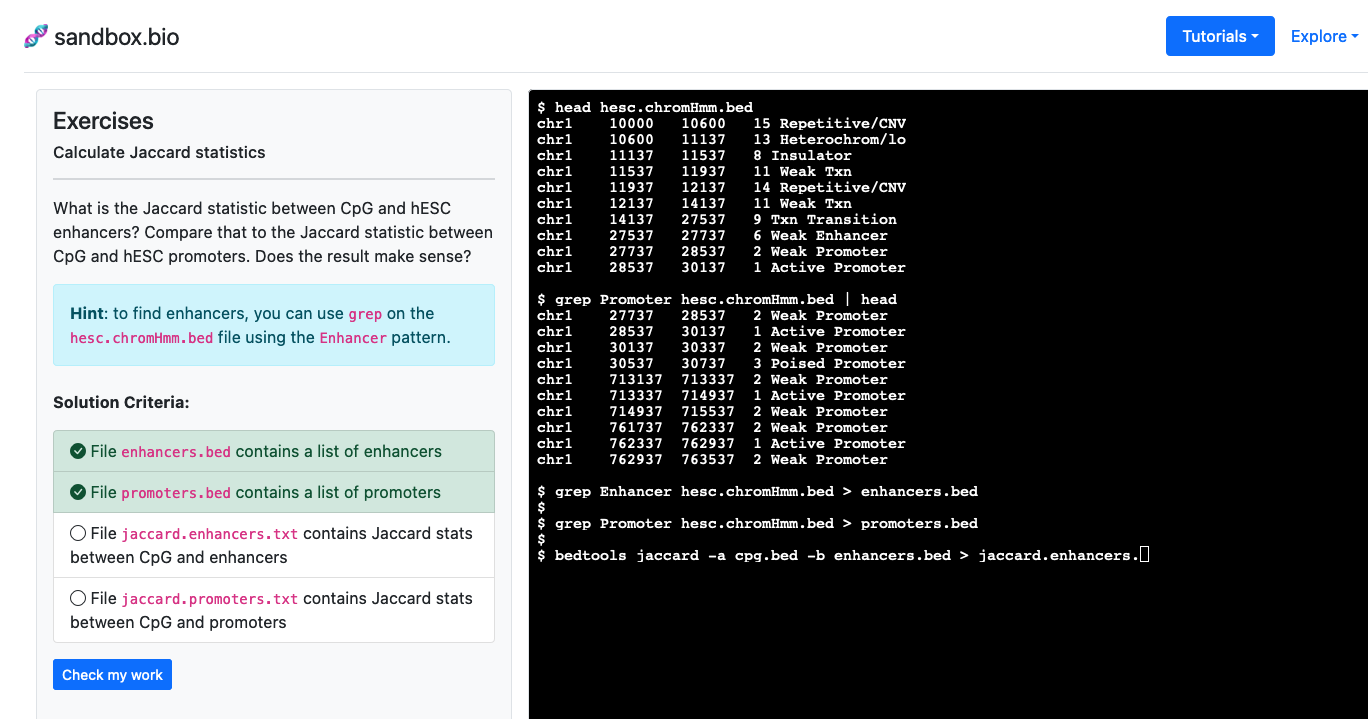
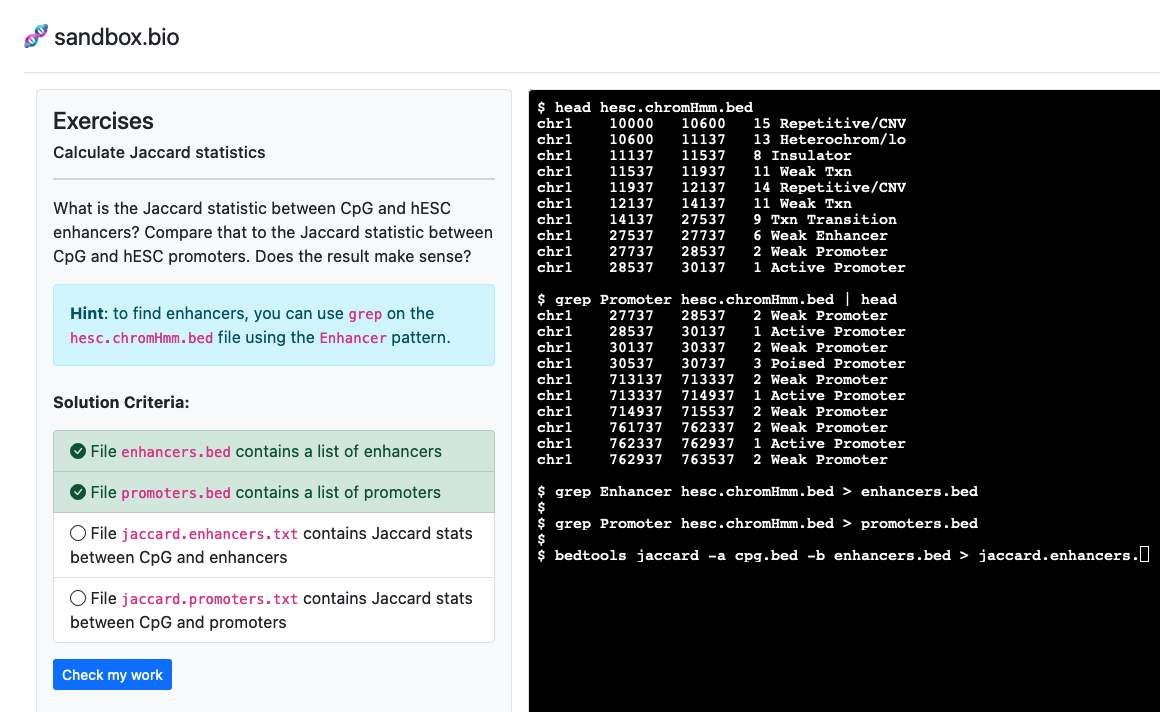
Cleanup images/ folder

Changed region(s): [[0.031, 0.1236, 0.9931, 1.0], [0.8379, 0.0, 0.9931, 0.0927], [0.0, 0.0309, 0.1552, 0.0618]]

diff --git a/app/src/routes/Home.svelte b/app/src/routes/Home.svelte
@@ -13,7 +13,7 @@ import Tutorials from "./Tutorials.svelte";
 			</div>
 		</div>
 		<div class="align-center col-lg-5 p-0 offset-lg-1 overflow-hidden shadow-lg">
-			<img class="rounded-lg-3" src="images/cli.cropped.png" alt="Screenshot of terminal and exercises" width="800">
+			<img class="rounded-lg-3" src="images/cli.png" alt="Screenshot of terminal and exercises" width="800">
 		</div>
 	</div>
 </div>
